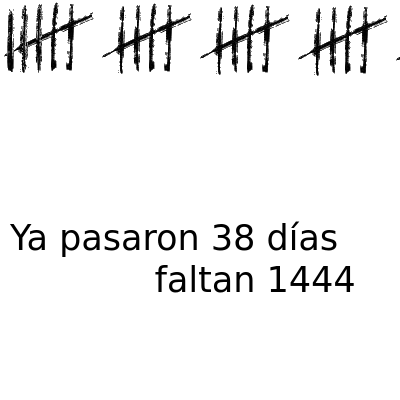
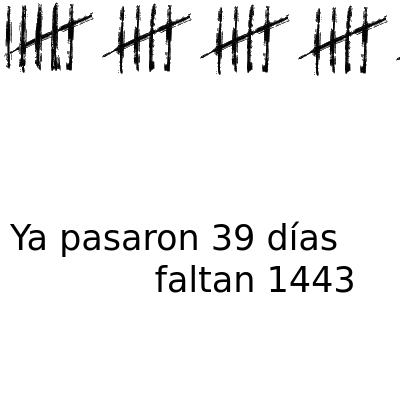
deploy: 28882f26f23b9f53dac6c4991168e610486d0e44

Changed region(s): [[0.0, 0.0, 0.15, 0.18], [0.84, 0.66, 0.9, 0.75], [0.57, 0.57, 0.63, 0.63]]

diff --git a/index.html b/index.html
@@ -3,19 +3,19 @@
   <head>
     <meta charset='utf-8'>
     <meta http-equiv='X-UA-Compatible' content='IE=edge'>
-    <title>Ya pasaron 38 días y faltan 1444</title>
-    <meta name="description" content="Ya pasaron 38 días y faltan 1444">
-    <meta itemprop="name" content="Ya pasaron 38 días y faltan 1444">
-    <meta itemprop="description" content="Ya pasaron 38 días y faltan 1444">
+    <title>Ya pasaron 39 días y faltan 1443</title>
+    <meta name="description" content="Ya pasaron 39 días y faltan 1443">
+    <meta itemprop="name" content="Ya pasaron 39 días y faltan 1443">
+    <meta itemprop="description" content="Ya pasaron 39 días y faltan 1443">
     <meta name="twitter:card" content="summary">
-    <meta name="twitter:title" content="Ya pasaron 38 días y faltan 1444">
-    <meta name="twitter:description" content="Ya pasaron 38 días y faltan 1444">
+    <meta name="twitter:title" content="Ya pasaron 39 días y faltan 1443">
+    <meta name="twitter:description" content="Ya pasaron 39 días y faltan 1443">
     <meta name="twitter:creator" content="@FloriusWasTaken">
     <meta name="twitter:image" content="https://pasaron.meme.ar/capture.png">
-    <meta property="og:title" content="Ya pasaron 38 días y faltan 1444">
-    <meta property="og:description" content="Ya pasaron 38 días y faltan 1444">
+    <meta property="og:title" content="Ya pasaron 39 días y faltan 1443">
+    <meta property="og:description" content="Ya pasaron 39 días y faltan 1443">
     <meta property="og:url" content="https://pasaron.meme.ar">
-    <meta property="og:site_name" content="Ya pasaron 38 días y faltan 1444">
+    <meta property="og:site_name" content="Ya pasaron 39 días y faltan 1443">
     <meta property="og:type" content="website">
     <meta property="og:image" content="https://pasaron.meme.ar/capture.png">
     <meta name="theme-color" content="#dc143c">
@@ -69,18 +69,18 @@
         padding: 0;
       }
     </style>
-    <title>Ya pasaron 38 días y faltan 1444</title>
+    <title>Ya pasaron 39 días y faltan 1443</title>
   </head>
   <body>
     <div id="main">
       <img src="img/5.png"/><img src="img/5.png"/><img src="img/5.png"/><img src="img/5.png"/><img src="img/5.png"/><img src="img/5.png"/><img src="img/5.png"/>
       
-        <img src="img/3.png"/>
+        <img src="img/4.png"/>
       
     </div>
     <footer id="footer">
       <marquee id="marquee" class="is-vertical-align">
-        Ya pasaron 38 días y faltan 1444
+        Ya pasaron 39 días y faltan 1443
       </marquee>
       <ul>
         <li>
